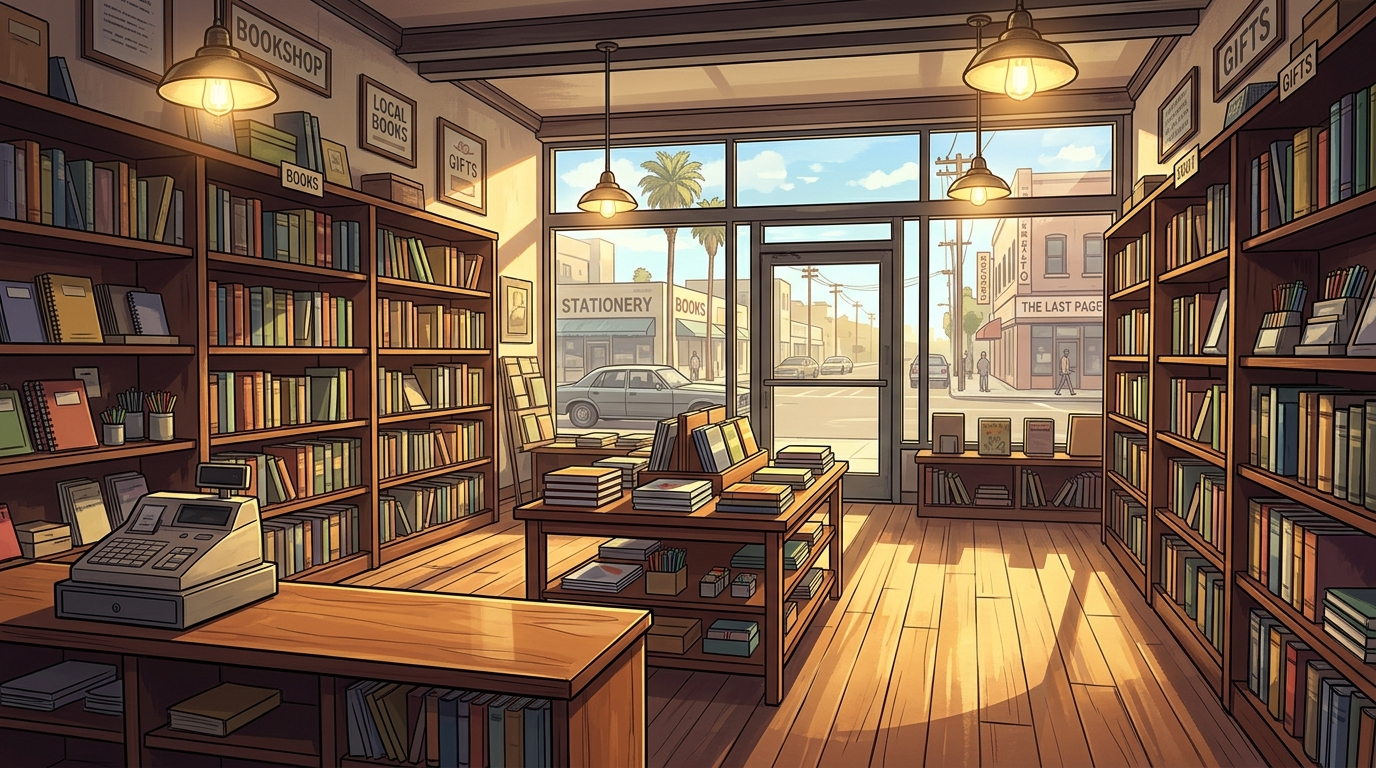
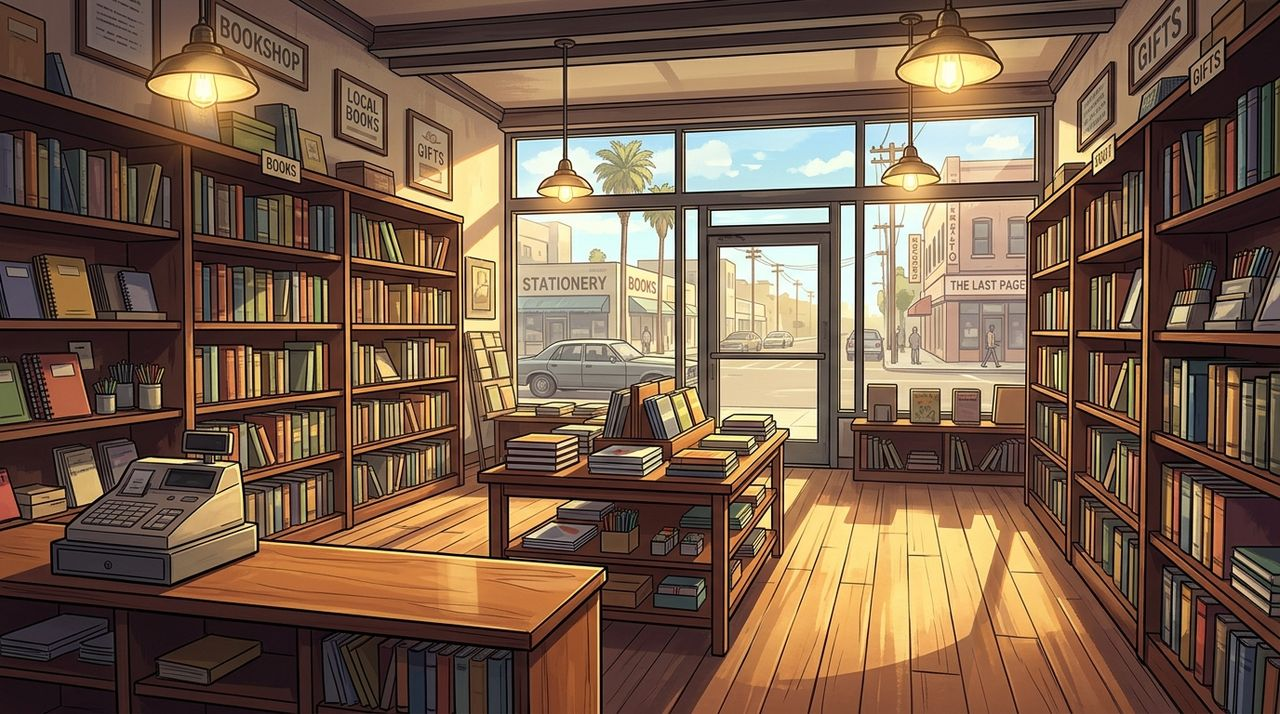
perf: optimize story PNG/JPG sizes and add two-stage essential preloading

diff --git a/src/story/story-loader.js b/src/story/story-loader.js
@@ -401,7 +401,7 @@ export function collectStoryAssetUrls(storyPackage) {
 }
 
 export function collectMissionAssetUrls(storyPackage, missionIndex = 0, options = {}) {
-  const { includeSplash = missionIndex === 0 } = options;
+  const { includeSplash = missionIndex === 0, essentialOnly = false } = options;
   if (!storyPackage) return [];
   const urls = new Set();
 
@@ -412,14 +412,21 @@ export function collectMissionAssetUrls(storyPackage, missionIndex = 0, options 
   const mission = storyPackage.missions?.[missionIndex];
   if (!mission) return [...urls];
 
-  const cutscenes = [mission.introCutscene, mission.outroCutscene];
+  const cutscenes = essentialOnly
+    ? [mission.introCutscene]
+    : [mission.introCutscene, mission.outroCutscene];
   const charIds = new Set();
   for (const cs of cutscenes) {
     if (!cs) continue;
-    if (cs.backgroundImage) urls.add(cs.backgroundImage);
-    if (Array.isArray(cs.backgroundPool)) {
-      for (const bgUrl of cs.backgroundPool) {
-        if (bgUrl) urls.add(bgUrl);
+    if (essentialOnly) {
+      const firstBg = cs.backgroundImage || (Array.isArray(cs.backgroundPool) ? cs.backgroundPool[0] : '');
+      if (firstBg) urls.add(firstBg);
+    } else {
+      if (cs.backgroundImage) urls.add(cs.backgroundImage);
+      if (Array.isArray(cs.backgroundPool)) {
+        for (const bgUrl of cs.backgroundPool) {
+          if (bgUrl) urls.add(bgUrl);
+        }
       }
     }
     if (cs.leftChar) charIds.add(cs.leftChar);
@@ -522,7 +529,7 @@ export async function preloadStoryAssets(storyPackage, options = {}) {
 }
 
 export async function preloadMissionAssets(storyPackage, missionIndex = 0, options = {}) {
-  const { includeSplash = missionIndex === 0, ...rest } = options;
-  const urls = collectMissionAssetUrls(storyPackage, missionIndex, { includeSplash });
+  const { includeSplash = missionIndex === 0, essentialOnly = false, ...rest } = options;
+  const urls = collectMissionAssetUrls(storyPackage, missionIndex, { includeSplash, essentialOnly });
   return preloadUrlList(urls, rest);
 }

diff --git a/src/main.js b/src/main.js
@@ -4,7 +4,7 @@ import { CutsceneController } from './ui/cutscene-controller.js?v=14';
 import { PauseMenuController } from './ui/pause-menu.js';
 import { InventoryController } from './ui/inventory-controller.js?v=16';
 import { CityMap } from './world/city-map.js?v=23';
-import { loadStoryPackage, preloadMissionAssets } from './story/story-loader.js?v=15';
+import { loadStoryPackage, preloadMissionAssets } from './story/story-loader.js?v=16';
 
 function waitMs(ms) {
   return new Promise((resolve) => setTimeout(resolve, ms));
@@ -38,14 +38,21 @@ async function boot() {
 
     await preloadMissionAssets(storyPackage, 0, {
       includeSplash: true,
+      essentialOnly: true,
       preloadedUrls,
       onProgress: ({ loaded, total, ratio }) => {
         const msg = total > 0
-          ? `Carregando recursos da 1ª missão (${loaded}/${total})...`
+          ? `Carregando recursos iniciais (${loaded}/${total})...`
           : 'Verificando recursos iniciais...';
         hud.showLoading(55 + ratio * 40, msg);
       }
     });
+
+    // Pré-carrega o restante dos cenários da missão 1 em segundo plano sem bloquear a entrada
+    preloadMissionAssets(storyPackage, 0, {
+      includeSplash: false,
+      preloadedUrls
+    }).catch(() => {});
 
     hud.setStoryHeader({
       title: storyPackage.title,

diff --git a/index.html b/index.html
@@ -257,6 +257,6 @@
       });
     })();
   </script>
-  <script type="module" src="./src/main.js?v=25"></script>
+  <script type="module" src="./src/main.js?v=27"></script>
 </body>
 </html>
